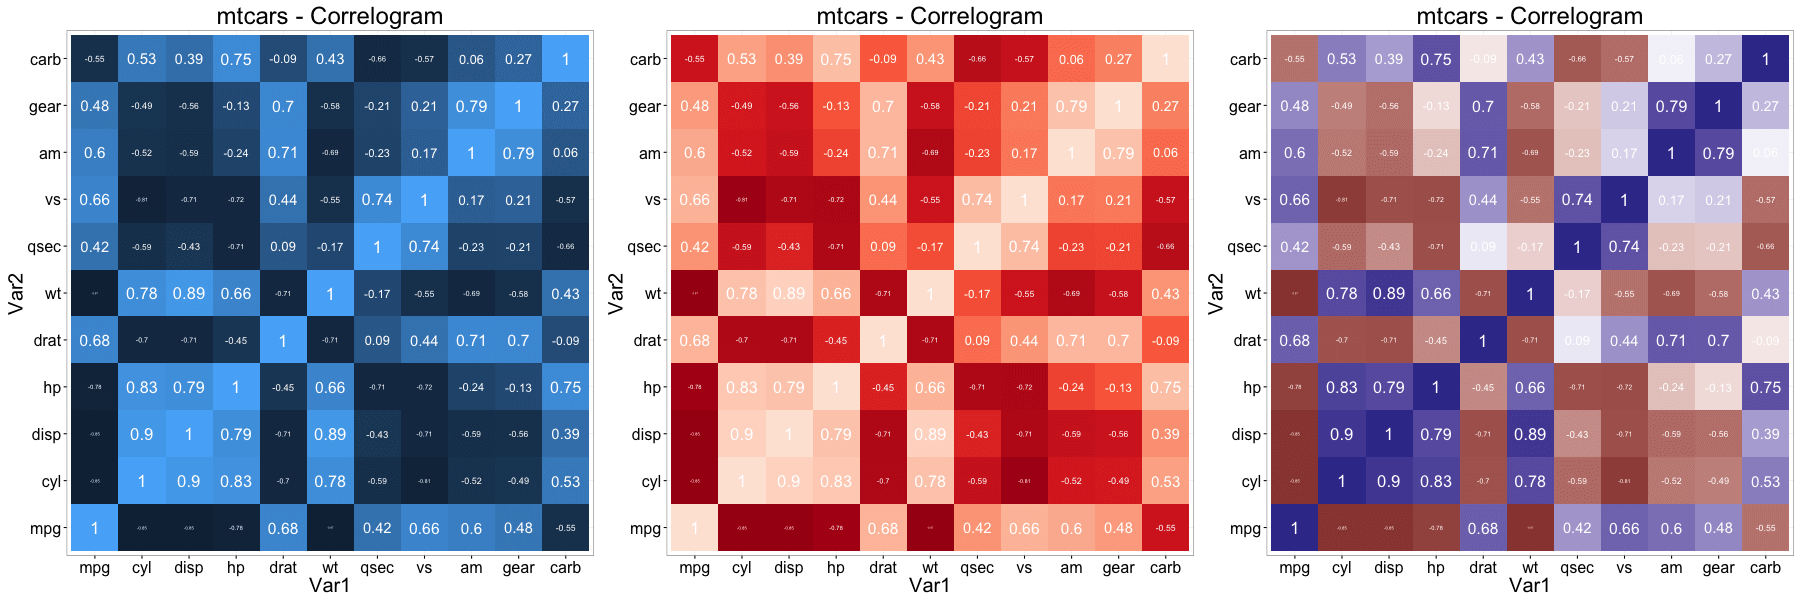
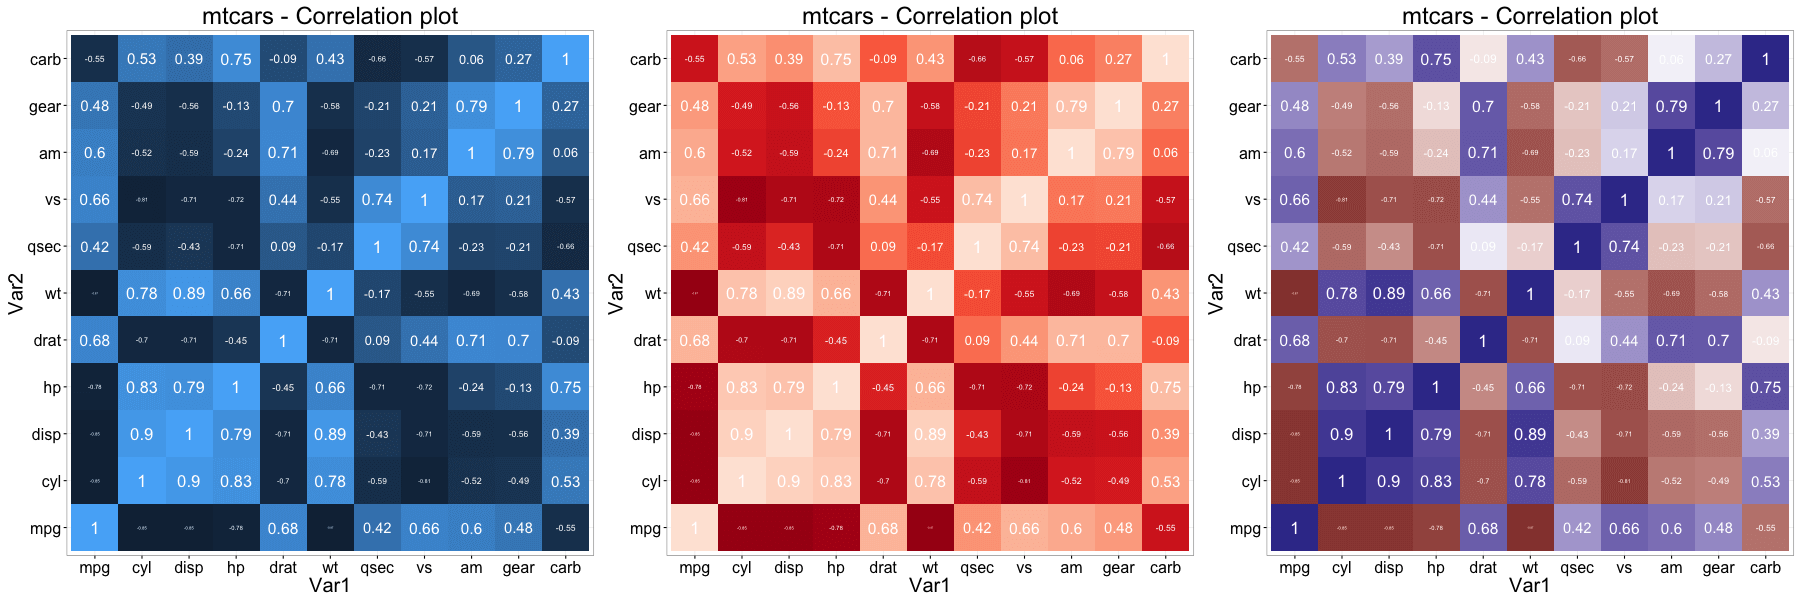
updated title of correlation plot

Changed region(s): [[0.7778, 0.0, 0.9333, 0.06], [0.4356, 0.0, 0.5911, 0.06], [0.1244, 0.0, 0.2489, 0.06]]

diff --git a/ggplot2-cheatsheet.html b/ggplot2-cheatsheet.html
@@ -489,7 +489,7 @@ gridExtra::<span class="kw">grid.arrange</span>(p1, p2, <span class="dt">ncol=</
 <h4>Tiles</h4>
 <div class="sourceCode"><pre class="sourceCode r"><code class="sourceCode r">corr &lt;-<span class="st"> </span><span class="kw">round</span>(<span class="kw">cor</span>(mtcars), <span class="dv">2</span>)
 df &lt;-<span class="st"> </span>reshape2::<span class="kw">melt</span>(corr)
-gg &lt;-<span class="st"> </span><span class="kw">ggplot</span>(df, <span class="kw">aes</span>(<span class="dt">x=</span>Var1, <span class="dt">y=</span>Var2, <span class="dt">fill=</span>value, <span class="dt">label=</span>value)) +<span class="st"> </span><span class="kw">geom_tile</span>() +<span class="st"> </span><span class="kw">theme_bw</span>() +<span class="st"> </span><span class="kw">geom_text</span>(<span class="kw">aes</span>(<span class="dt">label=</span>value, <span class="dt">size=</span>value), <span class="dt">color=</span><span class="st">&quot;white&quot;</span>) +<span class="st"> </span><span class="kw">labs</span>(<span class="dt">title=</span><span class="st">&quot;mtcars - Correlogram&quot;</span>) +<span class="st"> </span><span class="kw">theme</span>(<span class="dt">text=</span><span class="kw">element_text</span>(<span class="dt">size=</span><span class="dv">20</span>), <span class="dt">legend.position=</span><span class="st">&quot;none&quot;</span>)
+gg &lt;-<span class="st"> </span><span class="kw">ggplot</span>(df, <span class="kw">aes</span>(<span class="dt">x=</span>Var1, <span class="dt">y=</span>Var2, <span class="dt">fill=</span>value, <span class="dt">label=</span>value)) +<span class="st"> </span><span class="kw">geom_tile</span>() +<span class="st"> </span><span class="kw">theme_bw</span>() +<span class="st"> </span><span class="kw">geom_text</span>(<span class="kw">aes</span>(<span class="dt">label=</span>value, <span class="dt">size=</span>value), <span class="dt">color=</span><span class="st">&quot;white&quot;</span>) +<span class="st"> </span><span class="kw">labs</span>(<span class="dt">title=</span><span class="st">&quot;mtcars - Correlation plot&quot;</span>) +<span class="st"> </span><span class="kw">theme</span>(<span class="dt">text=</span><span class="kw">element_text</span>(<span class="dt">size=</span><span class="dv">20</span>), <span class="dt">legend.position=</span><span class="st">&quot;none&quot;</span>)
 
 <span class="kw">library</span>(RColorBrewer)
 p2 &lt;-<span class="st"> </span>gg +<span class="st"> </span><span class="kw">scale_fill_distiller</span>(<span class="dt">palette=</span><span class="st">&quot;Reds&quot;</span>)
